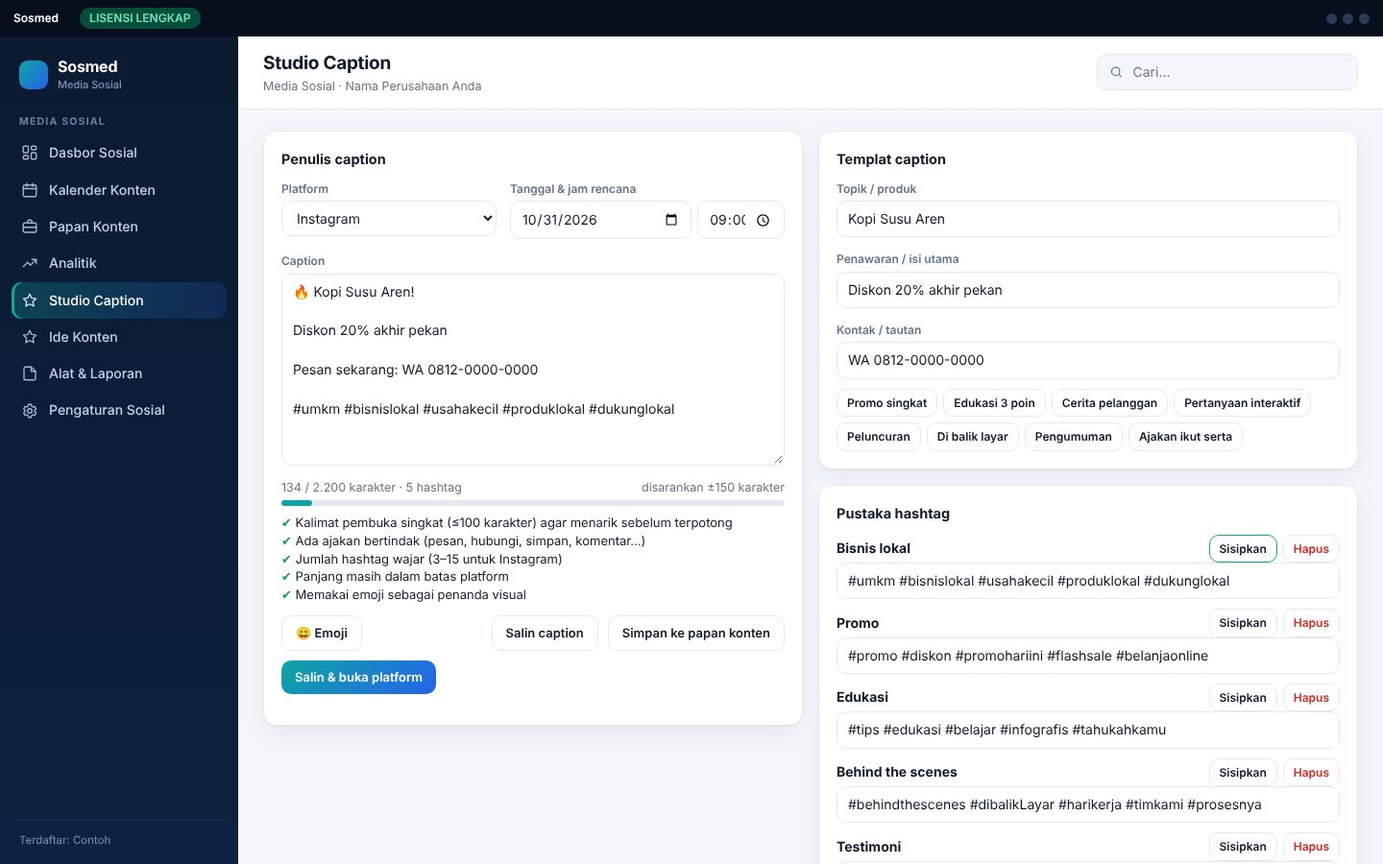
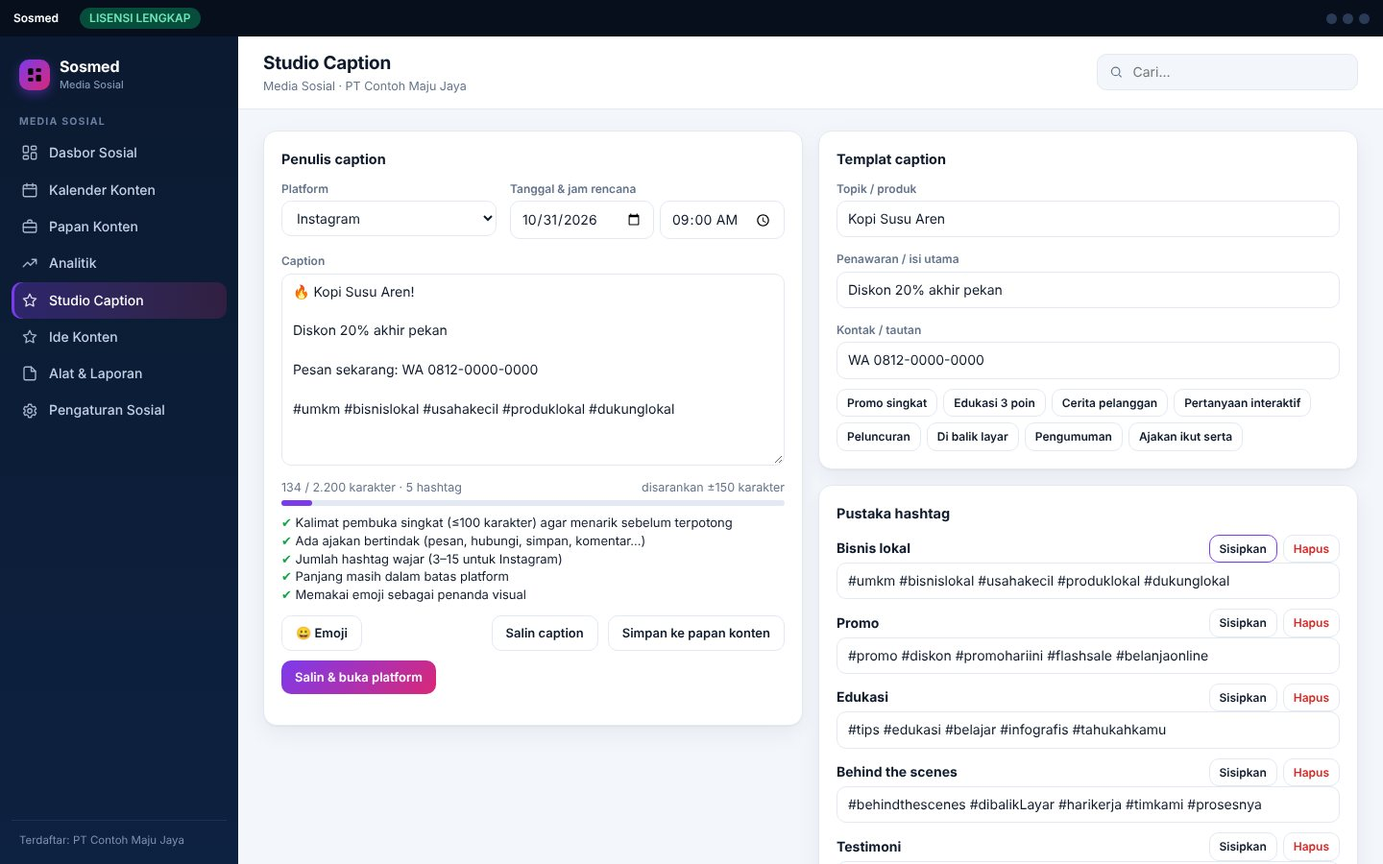
Identitas warna & ikon per aplikasi, perbaikan tampilan, galeri baru
Claude-Session: https://claude.ai/code/session_01ATKdQjtjDkbCW8CD6F26vC

diff --git a/index.html b/index.html
@@ -30,7 +30,7 @@ footer{background:var(--navy);color:#9fb1cc;padding:30px 0;font-size:14px}
 <header class="hero"><div class="w"><h1>Aplikasi profesional untuk bisnis Anda.</h1><p>HRMS, Finance, Sales, dan Sosmed: masing-masing aplikasi mandiri dengan fitur lengkap. Beli yang dibutuhkan saja, data tersimpan di komputer Anda, tanpa langganan bulanan.</p>
 <a class="btn pri" href="#modul">Lihat aplikasi &amp; coba demo</a><a class="btn" id="wa2" href="https://wa.me/6289623291732?text=Halo%2C%20saya%20tertarik%20aplikasi%20bisnis">Pesan</a>
 <img class="shot" src="assets/hr.jpg" alt="Dasbor HRMS"></div></header>
-<section id="modul"><div class="w"><h2>Aplikasi, beli sesuai kebutuhan</h2><p class="sub">Setiap aplikasi berdiri sendiri: file .exe sendiri, data sendiri, dan fitur lengkap. Semua angka pada demo adalah data simulasi.</p><div class="mod"><div><span class="tag">Human Resources</span><h3>HRMS: Payroll, absensi harian, dan talenta</h3><ul><li>Absen harian dengan jam masuk/pulang, terlambat, dan lembur otomatis, langsung masuk ke payroll</li><li>Payroll PPh 21 (TER dan progresif) dan BPJS, slip gaji PDF untuk semua karyawan</li><li>Impor absen dari CSV, cuti, rekrutmen, KPI, talent 9-Box, suksesi, pelatihan</li></ul><a class="btn pri" href="demo-app/hr/index.html" style="margin-right:8px">Coba demo HRMS</a><a class="btn" href="https://wa.me/6289623291732?text=Halo%2C%20saya%20tertarik%20HRMS">Pesan Rp100.000</a></div><img src="assets/hr-payroll.jpg" alt="HRMS" loading="lazy"></div><div class="mod"><div><span class="tag">Finance &amp; Accounting</span><h3>Finance: Pembukuan dari jurnal sampai tutup buku</h3><ul><li>Jurnal otomatis dari faktur, pembayaran, aset, dan pinjaman; faktur PDF</li><li>Laba rugi, neraca selalu seimbang, arus kas, anggaran, PPN, umur piutang/utang</li><li>Tutup buku bulanan dengan pemeriksaan otomatis, kunci periode, dan jurnal penutup tahun</li></ul><a class="btn pri" href="demo-app/fin/index.html" style="margin-right:8px">Coba demo Finance</a><a class="btn" href="https://wa.me/6289623291732?text=Halo%2C%20saya%20tertarik%20Finance">Pesan Rp100.000</a></div><img src="assets/fin.jpg" alt="Finance" loading="lazy"></div><div class="mod"><div><span class="tag">Sales &amp; Marketing</span><h3>Sales: Dari lead sampai penawaran dan komisi</h3><ul><li>CRM, skor lead, pipeline, dan funnel</li><li>Penawaran harga PDF yang bisa dijadikan penjualan dengan satu klik</li><li>Komisi berjenjang dengan slip PDF, kampanye (ROAS, ROI), tim sales</li></ul><a class="btn pri" href="demo-app/sales/index.html" style="margin-right:8px">Coba demo Sales</a><a class="btn" href="https://wa.me/6289623291732?text=Halo%2C%20saya%20tertarik%20Sales">Pesan Rp100.000</a></div><img src="assets/sales.jpg" alt="Sales" loading="lazy"></div><div class="mod"><div><span class="tag">Media Sosial</span><h3>Sosmed: Rencanakan, tulis, dan ukur konten tanpa API</h3><ul><li>Studio caption: batas karakter tiap platform, templat, pustaka hashtag, penilaian cepat</li><li>Jadwal ke kalender ponsel (.ics) dengan pengingat, tautan UTM, laporan bulanan PDF</li><li>Kalender dan papan konten, analitik, jam dan hari posting terbaik dari data Anda</li></ul><a class="btn pri" href="demo-app/sosial/index.html" style="margin-right:8px">Coba demo Sosmed</a><a class="btn" href="https://wa.me/6289623291732?text=Halo%2C%20saya%20tertarik%20Sosmed">Pesan Rp100.000</a></div><img src="assets/sosial.jpg" alt="Sosmed" loading="lazy"></div></section>
+<section id="modul"><div class="w"><h2>Aplikasi, beli sesuai kebutuhan</h2><p class="sub">Setiap aplikasi berdiri sendiri: file .exe sendiri, data sendiri, dan fitur lengkap. Semua angka pada demo adalah data simulasi.</p><div class="mod"><div><span class="tag" style="color:#0ea5a4">Human Resources</span><h3>HRMS: Payroll, absensi harian, dan talenta</h3><ul><li>Absen harian dengan jam masuk/pulang, terlambat, dan lembur otomatis, langsung masuk ke payroll</li><li>Payroll PPh 21 (TER dan progresif) dan BPJS, slip gaji PDF untuk semua karyawan</li><li>Impor absen dari CSV, cuti, rekrutmen, KPI, talent 9-Box, suksesi, pelatihan</li></ul><a class="btn pri" style="background:linear-gradient(135deg,#0ea5a4,#2563eb)" href="demo-app/hr/index.html" style="margin-right:8px">Coba demo HRMS</a><a class="btn" href="https://wa.me/6289623291732?text=Halo%2C%20saya%20tertarik%20HRMS">Pesan Rp100.000</a></div><img src="assets/hr-payroll.jpg" alt="HRMS" loading="lazy"></div><div class="mod"><div><span class="tag" style="color:#2563eb">Finance &amp; Accounting</span><h3>Finance: Pembukuan dari jurnal sampai tutup buku</h3><ul><li>Jurnal otomatis dari faktur, pembayaran, aset, dan pinjaman; faktur PDF</li><li>Laba rugi, neraca selalu seimbang, arus kas, anggaran, PPN, umur piutang/utang</li><li>Tutup buku bulanan dengan pemeriksaan otomatis, kunci periode, dan jurnal penutup tahun</li></ul><a class="btn pri" style="background:linear-gradient(135deg,#2563eb,#4f46e5)" href="demo-app/fin/index.html" style="margin-right:8px">Coba demo Finance</a><a class="btn" href="https://wa.me/6289623291732?text=Halo%2C%20saya%20tertarik%20Finance">Pesan Rp100.000</a></div><img src="assets/fin.jpg" alt="Finance" loading="lazy"></div><div class="mod"><div><span class="tag" style="color:#f97316">Sales &amp; Marketing</span><h3>Sales: Dari lead sampai penawaran dan komisi</h3><ul><li>CRM, skor lead, pipeline, dan funnel</li><li>Penawaran harga PDF yang bisa dijadikan penjualan dengan satu klik</li><li>Komisi berjenjang dengan slip PDF, kampanye (ROAS, ROI), tim sales</li></ul><a class="btn pri" style="background:linear-gradient(135deg,#f97316,#e11d48)" href="demo-app/sales/index.html" style="margin-right:8px">Coba demo Sales</a><a class="btn" href="https://wa.me/6289623291732?text=Halo%2C%20saya%20tertarik%20Sales">Pesan Rp100.000</a></div><img src="assets/sales.jpg" alt="Sales" loading="lazy"></div><div class="mod"><div><span class="tag" style="color:#7c3aed">Media Sosial</span><h3>Sosmed: Rencanakan, tulis, dan ukur konten tanpa API</h3><ul><li>Studio caption: batas karakter tiap platform, templat, pustaka hashtag, penilaian cepat</li><li>Jadwal ke kalender ponsel (.ics) dengan pengingat, tautan UTM, laporan bulanan PDF</li><li>Kalender dan papan konten, analitik, jam dan hari posting terbaik dari data Anda</li></ul><a class="btn pri" style="background:linear-gradient(135deg,#7c3aed,#db2777)" href="demo-app/sosial/index.html" style="margin-right:8px">Coba demo Sosmed</a><a class="btn" href="https://wa.me/6289623291732?text=Halo%2C%20saya%20tertarik%20Sosmed">Pesan Rp100.000</a></div><img src="assets/sosial.jpg" alt="Sosmed" loading="lazy"></div></section>
 <section id="galeri"><div class="w"><h2>Lihat lebih dekat</h2><p class="sub">Klik gambar untuk memperbesar. Semua data adalah simulasi.</p><div class="gal">
 <a href="assets/hr.jpg"><img src="assets/hr.jpg" alt="Dasbor HR" loading="lazy"><span>HR · Dasbor</span></a>
 <a href="assets/hr-payroll.jpg"><img src="assets/hr-payroll.jpg" alt="Payroll" loading="lazy"><span>HR · Payroll</span></a>

diff --git a/demo-app/fin/style.css b/demo-app/fin/style.css
@@ -9,12 +9,12 @@ button,input,select,textarea{font:inherit;color:inherit}
 .titlebar .lic{margin-left:12px;padding:2px 10px;border-radius:999px;background:#1c3153;color:#7dd3fc;font-weight:600}.titlebar .lic.full{background:#064e3b;color:#6ee7b7}
 .side{background:linear-gradient(180deg,var(--side),#0d2140);color:#c3d0e6;display:flex;flex-direction:column;padding:16px 12px;overflow:auto}
 .brand{display:flex;gap:10px;align-items:center;padding:4px 8px 18px;color:#fff;font-weight:700;font-size:16px;letter-spacing:-.2px}
-.brand i{width:30px;height:30px;border-radius:9px;background:linear-gradient(135deg,var(--brand),var(--brand2));display:block}
+.brand i{width:32px;height:32px;border-radius:10px;background:linear-gradient(135deg,var(--brand),var(--brand2));display:grid;place-items:center;color:#fff;box-shadow:0 4px 12px color-mix(in srgb,var(--brand) 45%,transparent)}.brand i svg{width:18px;height:18px}
 .brand small{display:block;font-weight:500;font-size:11px;color:#7f93b3;letter-spacing:0}
 .mod{margin:4px 0 14px}.mod h6{margin:0 8px 6px;font-size:10.5px;letter-spacing:1.2px;text-transform:uppercase;color:#6a7fa1}
 .nav{display:flex;align-items:center;gap:11px;width:100%;padding:9px 10px;border-radius:10px;border:0;background:transparent;color:#c3d0e6;cursor:pointer;text-align:left;font-weight:500}
 .nav svg{width:18px;height:18px;flex:none;stroke:currentColor;fill:none;stroke-width:1.8;stroke-linecap:round;stroke-linejoin:round;opacity:.85}
-.nav:hover{background:rgba(255,255,255,.06)}.nav.on{background:linear-gradient(90deg,rgba(14,165,164,.28),rgba(37,99,235,.18));color:#fff;box-shadow:inset 3px 0 0 var(--brand)}
+.nav:hover{background:rgba(255,255,255,.06)}.nav.on{background:linear-gradient(90deg,color-mix(in srgb,var(--brand) 30%,transparent),color-mix(in srgb,var(--brand2) 18%,transparent));color:#fff;box-shadow:inset 3px 0 0 var(--brand)}
 .nav .bd{margin-left:auto;background:var(--brand);color:#04201f;font-size:11px;font-weight:700;border-radius:999px;padding:1px 8px}
 .nav.soon{opacity:.45;cursor:default}.nav.soon:hover{background:transparent}
 .side .foot{margin-top:auto;padding:12px 8px 0;font-size:11.5px;color:#7f93b3;border-top:1px solid rgba(255,255,255,.08)}
@@ -31,10 +31,10 @@ button,input,select,textarea{font:inherit;color:inherit}
 .card h3{margin:0 0 12px;font-size:14.5px;display:flex;align-items:center;gap:8px}.card h3 small{font-weight:500;color:var(--mute)}
 .grid{display:grid;gap:16px}.g2{grid-template-columns:repeat(2,1fr)}.g3{grid-template-columns:repeat(3,1fr)}.g4{grid-template-columns:repeat(4,1fr)}.g32{grid-template-columns:2fr 1fr}
 .kpi{position:relative;overflow:hidden}.kpi small{color:var(--mute);font-weight:600;font-size:12px}.kpi b{display:block;font-size:24px;letter-spacing:-.5px;margin:4px 0 2px}.kpi .d{font-size:12px;color:var(--mute)}
-.kpi .ico{position:absolute;right:14px;top:14px;width:36px;height:36px;border-radius:10px;display:grid;place-items:center;background:linear-gradient(135deg,rgba(14,165,164,.15),rgba(37,99,235,.15));color:var(--brand)}
+.kpi .ico{position:absolute;right:14px;top:14px;width:36px;height:36px;border-radius:10px;display:grid;place-items:center;background:linear-gradient(135deg,color-mix(in srgb,var(--brand) 15%,transparent),color-mix(in srgb,var(--brand2) 15%,transparent));color:var(--brand)}
 .kpi .ico svg{width:19px;height:19px;stroke:currentColor;fill:none;stroke-width:1.9;stroke-linecap:round;stroke-linejoin:round}
 .tools{display:flex;gap:10px;align-items:center;flex-wrap:wrap;margin-bottom:14px}.tools .sp{flex:1}
-.inp,.sel{padding:8px 11px;border:1px solid var(--line);border-radius:10px;background:var(--panel);outline:0;min-width:0}.inp:focus,.sel:focus{border-color:var(--brand);box-shadow:0 0 0 3px rgba(14,165,164,.15)}
+.inp,.sel{padding:8px 11px;border:1px solid var(--line);border-radius:10px;background:var(--panel);outline:0;min-width:0}.inp:focus,.sel:focus{border-color:var(--brand);box-shadow:0 0 0 3px color-mix(in srgb,var(--brand) 15%,transparent)}
 .tbl{overflow:auto;border:1px solid var(--line);border-radius:12px;background:var(--panel)}
 table{border-collapse:collapse;width:100%;font-size:13px}th{position:sticky;top:0;background:var(--bg);text-align:left;font-size:11.5px;text-transform:uppercase;letter-spacing:.5px;color:var(--mute);padding:10px 12px;border-bottom:1px solid var(--line);white-space:nowrap;cursor:pointer;user-select:none}
 td{padding:9px 12px;border-bottom:1px solid var(--line);white-space:nowrap}tr:hover td{background:rgba(14,165,164,.05)}td.n,th.n{text-align:right;font-variant-numeric:tabular-nums}

diff --git a/demo-app/hr/style.css b/demo-app/hr/style.css
@@ -9,12 +9,12 @@ button,input,select,textarea{font:inherit;color:inherit}
 .titlebar .lic{margin-left:12px;padding:2px 10px;border-radius:999px;background:#1c3153;color:#7dd3fc;font-weight:600}.titlebar .lic.full{background:#064e3b;color:#6ee7b7}
 .side{background:linear-gradient(180deg,var(--side),#0d2140);color:#c3d0e6;display:flex;flex-direction:column;padding:16px 12px;overflow:auto}
 .brand{display:flex;gap:10px;align-items:center;padding:4px 8px 18px;color:#fff;font-weight:700;font-size:16px;letter-spacing:-.2px}
-.brand i{width:30px;height:30px;border-radius:9px;background:linear-gradient(135deg,var(--brand),var(--brand2));display:block}
+.brand i{width:32px;height:32px;border-radius:10px;background:linear-gradient(135deg,var(--brand),var(--brand2));display:grid;place-items:center;color:#fff;box-shadow:0 4px 12px color-mix(in srgb,var(--brand) 45%,transparent)}.brand i svg{width:18px;height:18px}
 .brand small{display:block;font-weight:500;font-size:11px;color:#7f93b3;letter-spacing:0}
 .mod{margin:4px 0 14px}.mod h6{margin:0 8px 6px;font-size:10.5px;letter-spacing:1.2px;text-transform:uppercase;color:#6a7fa1}
 .nav{display:flex;align-items:center;gap:11px;width:100%;padding:9px 10px;border-radius:10px;border:0;background:transparent;color:#c3d0e6;cursor:pointer;text-align:left;font-weight:500}
 .nav svg{width:18px;height:18px;flex:none;stroke:currentColor;fill:none;stroke-width:1.8;stroke-linecap:round;stroke-linejoin:round;opacity:.85}
-.nav:hover{background:rgba(255,255,255,.06)}.nav.on{background:linear-gradient(90deg,rgba(14,165,164,.28),rgba(37,99,235,.18));color:#fff;box-shadow:inset 3px 0 0 var(--brand)}
+.nav:hover{background:rgba(255,255,255,.06)}.nav.on{background:linear-gradient(90deg,color-mix(in srgb,var(--brand) 30%,transparent),color-mix(in srgb,var(--brand2) 18%,transparent));color:#fff;box-shadow:inset 3px 0 0 var(--brand)}
 .nav .bd{margin-left:auto;background:var(--brand);color:#04201f;font-size:11px;font-weight:700;border-radius:999px;padding:1px 8px}
 .nav.soon{opacity:.45;cursor:default}.nav.soon:hover{background:transparent}
 .side .foot{margin-top:auto;padding:12px 8px 0;font-size:11.5px;color:#7f93b3;border-top:1px solid rgba(255,255,255,.08)}
@@ -31,10 +31,10 @@ button,input,select,textarea{font:inherit;color:inherit}
 .card h3{margin:0 0 12px;font-size:14.5px;display:flex;align-items:center;gap:8px}.card h3 small{font-weight:500;color:var(--mute)}
 .grid{display:grid;gap:16px}.g2{grid-template-columns:repeat(2,1fr)}.g3{grid-template-columns:repeat(3,1fr)}.g4{grid-template-columns:repeat(4,1fr)}.g32{grid-template-columns:2fr 1fr}
 .kpi{position:relative;overflow:hidden}.kpi small{color:var(--mute);font-weight:600;font-size:12px}.kpi b{display:block;font-size:24px;letter-spacing:-.5px;margin:4px 0 2px}.kpi .d{font-size:12px;color:var(--mute)}
-.kpi .ico{position:absolute;right:14px;top:14px;width:36px;height:36px;border-radius:10px;display:grid;place-items:center;background:linear-gradient(135deg,rgba(14,165,164,.15),rgba(37,99,235,.15));color:var(--brand)}
+.kpi .ico{position:absolute;right:14px;top:14px;width:36px;height:36px;border-radius:10px;display:grid;place-items:center;background:linear-gradient(135deg,color-mix(in srgb,var(--brand) 15%,transparent),color-mix(in srgb,var(--brand2) 15%,transparent));color:var(--brand)}
 .kpi .ico svg{width:19px;height:19px;stroke:currentColor;fill:none;stroke-width:1.9;stroke-linecap:round;stroke-linejoin:round}
 .tools{display:flex;gap:10px;align-items:center;flex-wrap:wrap;margin-bottom:14px}.tools .sp{flex:1}
-.inp,.sel{padding:8px 11px;border:1px solid var(--line);border-radius:10px;background:var(--panel);outline:0;min-width:0}.inp:focus,.sel:focus{border-color:var(--brand);box-shadow:0 0 0 3px rgba(14,165,164,.15)}
+.inp,.sel{padding:8px 11px;border:1px solid var(--line);border-radius:10px;background:var(--panel);outline:0;min-width:0}.inp:focus,.sel:focus{border-color:var(--brand);box-shadow:0 0 0 3px color-mix(in srgb,var(--brand) 15%,transparent)}
 .tbl{overflow:auto;border:1px solid var(--line);border-radius:12px;background:var(--panel)}
 table{border-collapse:collapse;width:100%;font-size:13px}th{position:sticky;top:0;background:var(--bg);text-align:left;font-size:11.5px;text-transform:uppercase;letter-spacing:.5px;color:var(--mute);padding:10px 12px;border-bottom:1px solid var(--line);white-space:nowrap;cursor:pointer;user-select:none}
 td{padding:9px 12px;border-bottom:1px solid var(--line);white-space:nowrap}tr:hover td{background:rgba(14,165,164,.05)}td.n,th.n{text-align:right;font-variant-numeric:tabular-nums}

diff --git a/demo-app/sales/style.css b/demo-app/sales/style.css
@@ -9,12 +9,12 @@ button,input,select,textarea{font:inherit;color:inherit}
 .titlebar .lic{margin-left:12px;padding:2px 10px;border-radius:999px;background:#1c3153;color:#7dd3fc;font-weight:600}.titlebar .lic.full{background:#064e3b;color:#6ee7b7}
 .side{background:linear-gradient(180deg,var(--side),#0d2140);color:#c3d0e6;display:flex;flex-direction:column;padding:16px 12px;overflow:auto}
 .brand{display:flex;gap:10px;align-items:center;padding:4px 8px 18px;color:#fff;font-weight:700;font-size:16px;letter-spacing:-.2px}
-.brand i{width:30px;height:30px;border-radius:9px;background:linear-gradient(135deg,var(--brand),var(--brand2));display:block}
+.brand i{width:32px;height:32px;border-radius:10px;background:linear-gradient(135deg,var(--brand),var(--brand2));display:grid;place-items:center;color:#fff;box-shadow:0 4px 12px color-mix(in srgb,var(--brand) 45%,transparent)}.brand i svg{width:18px;height:18px}
 .brand small{display:block;font-weight:500;font-size:11px;color:#7f93b3;letter-spacing:0}
 .mod{margin:4px 0 14px}.mod h6{margin:0 8px 6px;font-size:10.5px;letter-spacing:1.2px;text-transform:uppercase;color:#6a7fa1}
 .nav{display:flex;align-items:center;gap:11px;width:100%;padding:9px 10px;border-radius:10px;border:0;background:transparent;color:#c3d0e6;cursor:pointer;text-align:left;font-weight:500}
 .nav svg{width:18px;height:18px;flex:none;stroke:currentColor;fill:none;stroke-width:1.8;stroke-linecap:round;stroke-linejoin:round;opacity:.85}
-.nav:hover{background:rgba(255,255,255,.06)}.nav.on{background:linear-gradient(90deg,rgba(14,165,164,.28),rgba(37,99,235,.18));color:#fff;box-shadow:inset 3px 0 0 var(--brand)}
+.nav:hover{background:rgba(255,255,255,.06)}.nav.on{background:linear-gradient(90deg,color-mix(in srgb,var(--brand) 30%,transparent),color-mix(in srgb,var(--brand2) 18%,transparent));color:#fff;box-shadow:inset 3px 0 0 var(--brand)}
 .nav .bd{margin-left:auto;background:var(--brand);color:#04201f;font-size:11px;font-weight:700;border-radius:999px;padding:1px 8px}
 .nav.soon{opacity:.45;cursor:default}.nav.soon:hover{background:transparent}
 .side .foot{margin-top:auto;padding:12px 8px 0;font-size:11.5px;color:#7f93b3;border-top:1px solid rgba(255,255,255,.08)}
@@ -31,10 +31,10 @@ button,input,select,textarea{font:inherit;color:inherit}
 .card h3{margin:0 0 12px;font-size:14.5px;display:flex;align-items:center;gap:8px}.card h3 small{font-weight:500;color:var(--mute)}
 .grid{display:grid;gap:16px}.g2{grid-template-columns:repeat(2,1fr)}.g3{grid-template-columns:repeat(3,1fr)}.g4{grid-template-columns:repeat(4,1fr)}.g32{grid-template-columns:2fr 1fr}
 .kpi{position:relative;overflow:hidden}.kpi small{color:var(--mute);font-weight:600;font-size:12px}.kpi b{display:block;font-size:24px;letter-spacing:-.5px;margin:4px 0 2px}.kpi .d{font-size:12px;color:var(--mute)}
-.kpi .ico{position:absolute;right:14px;top:14px;width:36px;height:36px;border-radius:10px;display:grid;place-items:center;background:linear-gradient(135deg,rgba(14,165,164,.15),rgba(37,99,235,.15));color:var(--brand)}
+.kpi .ico{position:absolute;right:14px;top:14px;width:36px;height:36px;border-radius:10px;display:grid;place-items:center;background:linear-gradient(135deg,color-mix(in srgb,var(--brand) 15%,transparent),color-mix(in srgb,var(--brand2) 15%,transparent));color:var(--brand)}
 .kpi .ico svg{width:19px;height:19px;stroke:currentColor;fill:none;stroke-width:1.9;stroke-linecap:round;stroke-linejoin:round}
 .tools{display:flex;gap:10px;align-items:center;flex-wrap:wrap;margin-bottom:14px}.tools .sp{flex:1}
-.inp,.sel{padding:8px 11px;border:1px solid var(--line);border-radius:10px;background:var(--panel);outline:0;min-width:0}.inp:focus,.sel:focus{border-color:var(--brand);box-shadow:0 0 0 3px rgba(14,165,164,.15)}
+.inp,.sel{padding:8px 11px;border:1px solid var(--line);border-radius:10px;background:var(--panel);outline:0;min-width:0}.inp:focus,.sel:focus{border-color:var(--brand);box-shadow:0 0 0 3px color-mix(in srgb,var(--brand) 15%,transparent)}
 .tbl{overflow:auto;border:1px solid var(--line);border-radius:12px;background:var(--panel)}
 table{border-collapse:collapse;width:100%;font-size:13px}th{position:sticky;top:0;background:var(--bg);text-align:left;font-size:11.5px;text-transform:uppercase;letter-spacing:.5px;color:var(--mute);padding:10px 12px;border-bottom:1px solid var(--line);white-space:nowrap;cursor:pointer;user-select:none}
 td{padding:9px 12px;border-bottom:1px solid var(--line);white-space:nowrap}tr:hover td{background:rgba(14,165,164,.05)}td.n,th.n{text-align:right;font-variant-numeric:tabular-nums}

diff --git a/demo-app/sosial/style.css b/demo-app/sosial/style.css
@@ -9,12 +9,12 @@ button,input,select,textarea{font:inherit;color:inherit}
 .titlebar .lic{margin-left:12px;padding:2px 10px;border-radius:999px;background:#1c3153;color:#7dd3fc;font-weight:600}.titlebar .lic.full{background:#064e3b;color:#6ee7b7}
 .side{background:linear-gradient(180deg,var(--side),#0d2140);color:#c3d0e6;display:flex;flex-direction:column;padding:16px 12px;overflow:auto}
 .brand{display:flex;gap:10px;align-items:center;padding:4px 8px 18px;color:#fff;font-weight:700;font-size:16px;letter-spacing:-.2px}
-.brand i{width:30px;height:30px;border-radius:9px;background:linear-gradient(135deg,var(--brand),var(--brand2));display:block}
+.brand i{width:32px;height:32px;border-radius:10px;background:linear-gradient(135deg,var(--brand),var(--brand2));display:grid;place-items:center;color:#fff;box-shadow:0 4px 12px color-mix(in srgb,var(--brand) 45%,transparent)}.brand i svg{width:18px;height:18px}
 .brand small{display:block;font-weight:500;font-size:11px;color:#7f93b3;letter-spacing:0}
 .mod{margin:4px 0 14px}.mod h6{margin:0 8px 6px;font-size:10.5px;letter-spacing:1.2px;text-transform:uppercase;color:#6a7fa1}
 .nav{display:flex;align-items:center;gap:11px;width:100%;padding:9px 10px;border-radius:10px;border:0;background:transparent;color:#c3d0e6;cursor:pointer;text-align:left;font-weight:500}
 .nav svg{width:18px;height:18px;flex:none;stroke:currentColor;fill:none;stroke-width:1.8;stroke-linecap:round;stroke-linejoin:round;opacity:.85}
-.nav:hover{background:rgba(255,255,255,.06)}.nav.on{background:linear-gradient(90deg,rgba(14,165,164,.28),rgba(37,99,235,.18));color:#fff;box-shadow:inset 3px 0 0 var(--brand)}
+.nav:hover{background:rgba(255,255,255,.06)}.nav.on{background:linear-gradient(90deg,color-mix(in srgb,var(--brand) 30%,transparent),color-mix(in srgb,var(--brand2) 18%,transparent));color:#fff;box-shadow:inset 3px 0 0 var(--brand)}
 .nav .bd{margin-left:auto;background:var(--brand);color:#04201f;font-size:11px;font-weight:700;border-radius:999px;padding:1px 8px}
 .nav.soon{opacity:.45;cursor:default}.nav.soon:hover{background:transparent}
 .side .foot{margin-top:auto;padding:12px 8px 0;font-size:11.5px;color:#7f93b3;border-top:1px solid rgba(255,255,255,.08)}
@@ -31,10 +31,10 @@ button,input,select,textarea{font:inherit;color:inherit}
 .card h3{margin:0 0 12px;font-size:14.5px;display:flex;align-items:center;gap:8px}.card h3 small{font-weight:500;color:var(--mute)}
 .grid{display:grid;gap:16px}.g2{grid-template-columns:repeat(2,1fr)}.g3{grid-template-columns:repeat(3,1fr)}.g4{grid-template-columns:repeat(4,1fr)}.g32{grid-template-columns:2fr 1fr}
 .kpi{position:relative;overflow:hidden}.kpi small{color:var(--mute);font-weight:600;font-size:12px}.kpi b{display:block;font-size:24px;letter-spacing:-.5px;margin:4px 0 2px}.kpi .d{font-size:12px;color:var(--mute)}
-.kpi .ico{position:absolute;right:14px;top:14px;width:36px;height:36px;border-radius:10px;display:grid;place-items:center;background:linear-gradient(135deg,rgba(14,165,164,.15),rgba(37,99,235,.15));color:var(--brand)}
+.kpi .ico{position:absolute;right:14px;top:14px;width:36px;height:36px;border-radius:10px;display:grid;place-items:center;background:linear-gradient(135deg,color-mix(in srgb,var(--brand) 15%,transparent),color-mix(in srgb,var(--brand2) 15%,transparent));color:var(--brand)}
 .kpi .ico svg{width:19px;height:19px;stroke:currentColor;fill:none;stroke-width:1.9;stroke-linecap:round;stroke-linejoin:round}
 .tools{display:flex;gap:10px;align-items:center;flex-wrap:wrap;margin-bottom:14px}.tools .sp{flex:1}
-.inp,.sel{padding:8px 11px;border:1px solid var(--line);border-radius:10px;background:var(--panel);outline:0;min-width:0}.inp:focus,.sel:focus{border-color:var(--brand);box-shadow:0 0 0 3px rgba(14,165,164,.15)}
+.inp,.sel{padding:8px 11px;border:1px solid var(--line);border-radius:10px;background:var(--panel);outline:0;min-width:0}.inp:focus,.sel:focus{border-color:var(--brand);box-shadow:0 0 0 3px color-mix(in srgb,var(--brand) 15%,transparent)}
 .tbl{overflow:auto;border:1px solid var(--line);border-radius:12px;background:var(--panel)}
 table{border-collapse:collapse;width:100%;font-size:13px}th{position:sticky;top:0;background:var(--bg);text-align:left;font-size:11.5px;text-transform:uppercase;letter-spacing:.5px;color:var(--mute);padding:10px 12px;border-bottom:1px solid var(--line);white-space:nowrap;cursor:pointer;user-select:none}
 td{padding:9px 12px;border-bottom:1px solid var(--line);white-space:nowrap}tr:hover td{background:rgba(14,165,164,.05)}td.n,th.n{text-align:right;font-variant-numeric:tabular-nums}

diff --git a/demo-app/fin/fin.js b/demo-app/fin/fin.js
@@ -225,9 +225,9 @@ V.f_tutup=el=>{
    r.push({t:'Semua faktur bulan ini punya jurnal',ok:!op,n:op?op+' faktur tanpa jurnal':'',blk:1});return r};
   const canClose=nm<=12&&nm<=d.bulan,res=canClose?chk(nm):[],pass=res.every(x=>x.ok||!x.blk);
   el.innerHTML=`<div class="grid g2"><div class="card"><h3>Status periode</h3><p style="margin:0 0 10px">${lk?`Dikunci sampai akhir <b>${MN[lm-1]} ${d.tahun}</b>. Transaksi bertanggal pada atau sebelum itu tidak bisa ditambah, diubah, atau dihapus.`:'Belum ada periode yang ditutup.'}</p>
-   <div style="display:flex;gap:6px;flex-wrap:wrap;margin-bottom:14px">${MN.map((n,i)=>`<span class="pill ${i<lm?'ok':'mut'}">${i<lm?'🔒 ':''}${n.slice(0,3)}</span>`).join('')}</div>
+   <div style="display:flex;gap:6px;flex-wrap:wrap;margin-bottom:14px">${MN.map((n,i)=>pill((i<lm?'🔒 ':'')+n.slice(0,3),i<lm?'ok':'mut')).join('')}</div>
    <div class="tools">${lm?`<button class="btn dng" id="op">Buka kembali ${MN[lm-1]}</button>`:''}</div></div>
-   <div class="card"><h3>${canClose?'Tutup buku '+MN[nm-1]+' '+d.tahun:'Tutup buku'}</h3>${canClose?`<div style="display:grid;gap:8px;margin-bottom:14px">${res.map(x=>`<div style="display:flex;gap:8px;align-items:flex-start"><span class="pill ${x.ok?'ok':x.blk?'bad':'warn'}">${x.ok?'Lolos':x.blk?'Gagal':'Periksa'}</span><div>${x.t}${x.n?`<br><small style="color:var(--mute)">${esc(x.n)}</small>`:''}</div></div>`).join('')}</div>${nm===12?`<label style="display:flex;gap:8px;align-items:flex-start;margin-bottom:12px"><input type="checkbox" id="cj" checked><span>Posting <b>jurnal penutup tahun</b>: saldo pendapatan dan beban ditutup ke Laba Ditahan. Laporan laba rugi tahun ini tetap utuh.</span></label>`:''}<div class="tools"><button class="btn pri" id="cl" ${pass?'':'disabled'}>Tutup buku ${MN[nm-1]}</button><button class="btn" id="pl">Cetak laba rugi & neraca</button></div>${pass?'':'<p style="color:var(--mute);margin:10px 0 0">Selesaikan pemeriksaan yang gagal untuk dapat menutup periode.</p>'}`:`<p style="color:var(--mute);margin:0">${nm>12?'Seluruh bulan tahun '+d.tahun+' sudah ditutup.':'Bulan berikutnya ('+MN[nm-1]+') belum menjadi periode berjalan. Ubah periode berjalan di Pengaturan Keuangan bila ingin menutupnya.'}</p>`}</div></div>`;
+   <div class="card"><h3>${canClose?'Tutup buku '+MN[nm-1]+' '+d.tahun:'Tutup buku'}</h3>${canClose?`<div style="display:grid;gap:8px;margin-bottom:14px">${res.map(x=>`<div style="display:flex;gap:8px;align-items:flex-start">${pill(x.ok?'Lolos':x.blk?'Gagal':'Periksa',x.ok?'ok':x.blk?'bad':'warn')}<div>${x.t}${x.n?`<br><small style="color:var(--mute)">${esc(x.n)}</small>`:''}</div></div>`).join('')}</div>${nm===12?`<label style="display:flex;gap:8px;align-items:flex-start;margin-bottom:12px"><input type="checkbox" id="cj" checked><span>Posting <b>jurnal penutup tahun</b>: saldo pendapatan dan beban ditutup ke Laba Ditahan. Laporan laba rugi tahun ini tetap utuh.</span></label>`:''}<div class="tools"><button class="btn pri" id="cl" ${pass?'':'disabled'}>Tutup buku ${MN[nm-1]}</button><button class="btn" id="pl">Cetak laba rugi & neraca</button></div>${pass?'':'<p style="color:var(--mute);margin:10px 0 0">Selesaikan pemeriksaan yang gagal untuk dapat menutup periode.</p>'}`:`<p style="color:var(--mute);margin:0">${nm>12?'Seluruh bulan tahun '+d.tahun+' sudah ditutup.':'Bulan berikutnya ('+MN[nm-1]+') belum menjadi periode berjalan. Ubah periode berjalan di Pengaturan Keuangan bila ingin menutupnya.'}</p>`}</div></div>`;
   if($('#cl'))$('#cl').onclick=()=>{if(!confirm('Tutup buku '+MN[nm-1]+'? Transaksi pada periode ini akan terkunci.'))return;if(nm===12&&$('#cj')&&$('#cj').checked&&!d.ent.some(e=>e.src==='tutup')){const c=FIN.closeEntry();if(c)FIN.post(FIN.end(12),'CLS-'+d.tahun,'Jurnal penutup tahun '+d.tahun,c.l,'tutup')}d.lock=d.tahun+'-'+String(nm).padStart(2,'0');FIN.save();draw();toast(MN[nm-1]+' ditutup'+(d.ent.some(e=>e.src==='tutup')?' dan jurnal penutup diposting':''))};
   if($('#op'))$('#op').onclick=()=>{if(!confirm('Buka kembali '+MN[lm-1]+'? Periode akan bisa diubah lagi'+(lm===12&&d.ent.some(e=>e.src==='tutup')?' dan jurnal penutup tahun dihapus.':'.')))return;if(lm===12)d.ent=d.ent.filter(e=>e.src!=='tutup');d.lock=lm>1?d.tahun+'-'+String(lm-1).padStart(2,'0'):'';FIN.save();draw();toast(MN[lm-1]+' dibuka kembali')};
   if($('#pl'))$('#pl').onclick=()=>printDoc('Laporan '+MN[nm-1]+' '+d.tahun,lrBody(nm)+nrBody(nm));

diff --git a/demo-app/sosial/social.js b/demo-app/sosial/social.js
@@ -105,7 +105,7 @@ V.m_studio=el=>{
   const d=SOC.d,sets=SOC.tags(),pf=el._p||d.acc[0].p,st=el._st||{topik:'',penawaran:'',kontak:''},cap=el._cap||'';
   const rd=()=>({t:$('#c_t').value,pe:$('#c_pe').value,k:$('#c_k').value});
   el.innerHTML=`<div class="grid g2" style="align-items:start"><div class="card"><h3>Penulis caption</h3>
-  <div class="form"><div><label>Platform</label><select class="sel" id="c_p">${opts(d.acc.map(a=>a.p),pf)}</select></div><div><label>Tanggal & jam rencana</label><div style="display:flex;gap:6px"><input class="inp" type="date" id="c_d" value="${d.today}"><input class="inp" type="time" id="c_j" value="09:00" style="width:130px"></div></div>
+  <div class="form"><div><label>Platform</label><select class="sel" id="c_p">${opts(d.acc.map(a=>a.p),pf)}</select></div><div><label>Tanggal & jam rencana</label><div style="display:flex;gap:6px"><input class="inp" type="date" id="c_d" value="${d.today}" style="flex:1 1 150px"><input class="inp" type="time" id="c_j" value="09:00" style="flex:0 0 130px;width:130px"></div></div>
   <div class="full"><label>Caption</label><textarea class="inp" id="c_c" rows="9" placeholder="Tulis caption di sini, atau pilih templat di kanan…">${esc(cap)}</textarea></div></div>
   <div id="cnt" style="margin:8px 0"></div><div id="qc" style="font-size:13px"></div>
   <div class="tools" style="margin-top:12px;flex-wrap:wrap"><button class="btn" data-em="😀 🔥 ✨ 👇 ✅ 🙏 💡 🎁">😀 Emoji</button><span class="sp"></span><button class="btn" id="cp">Salin caption</button><button class="btn" id="sv">Simpan ke papan konten</button><button class="btn pri" id="sh">Salin & buka platform</button></div><div id="em" style="margin-top:8px;font-size:20px;display:none"></div></div>

diff --git a/demo-app/fin/app.js b/demo-app/fin/app.js
@@ -7,6 +7,7 @@ const MODS_ALL=MODS.slice();
 const App={cur:'dashboard',q:'',
  init(){if(CONFIG.modules){for(let i=MODS.length-1;i>=0;i--)if(!CONFIG.modules.includes(MODS[i].key))MODS.splice(i,1);this.cur=MODS[0].items[0][0]}
   [['HR','hr'],['FIN','fin'],['SAL','sales'],['SOC','sosial']].forEach(([o,k])=>{if(!CONFIG.modules||CONFIG.modules.includes(k))window[o]!==undefined||0;});(typeof HR!=='undefined')&&HR.init();(typeof FIN!=='undefined')&&FIN.init();(typeof SAL!=='undefined')&&SAL.init();(typeof SOC!=='undefined')&&SOC.init();try{if(Store.get('theme','')==='dark')document.documentElement.dataset.theme='dark'}catch(e){}
+  {const cs=getComputedStyle(document.documentElement);PAL[0]=cs.getPropertyValue('--brand').trim()||PAL[0];PAL[1]=cs.getPropertyValue('--brand2').trim()||PAL[1];const bi=$('.brand i');if(bi)bi.innerHTML=ico(MODS[0].items[0][2])}
   $('#lic').textContent=DEMO()?'EDISI DEMO':'LISENSI LENGKAP';$('#lic').className='lic'+(DEMO()?'':' full');
   $('#nav').innerHTML=MODS.map(m=>`<div class="mod"><h6>${m.g}${m.soon?' · segera':''}</h6>${m.items.map(i=>`<button class="nav${m.soon?' soon':''}" data-k="${i[0]}">${ico(i[2])}<span>${i[1]}</span></button>`).join('')}</div>`).join('');
   $$('.nav:not(.soon)').forEach(b=>b.onclick=()=>{this.cur=b.dataset.k;this.q='';$('#q').value='';this.render()});

diff --git a/demo-app/hr/app.js b/demo-app/hr/app.js
@@ -7,6 +7,7 @@ const MODS_ALL=MODS.slice();
 const App={cur:'dashboard',q:'',
  init(){if(CONFIG.modules){for(let i=MODS.length-1;i>=0;i--)if(!CONFIG.modules.includes(MODS[i].key))MODS.splice(i,1);this.cur=MODS[0].items[0][0]}
   [['HR','hr'],['FIN','fin'],['SAL','sales'],['SOC','sosial']].forEach(([o,k])=>{if(!CONFIG.modules||CONFIG.modules.includes(k))window[o]!==undefined||0;});(typeof HR!=='undefined')&&HR.init();(typeof FIN!=='undefined')&&FIN.init();(typeof SAL!=='undefined')&&SAL.init();(typeof SOC!=='undefined')&&SOC.init();try{if(Store.get('theme','')==='dark')document.documentElement.dataset.theme='dark'}catch(e){}
+  {const cs=getComputedStyle(document.documentElement);PAL[0]=cs.getPropertyValue('--brand').trim()||PAL[0];PAL[1]=cs.getPropertyValue('--brand2').trim()||PAL[1];const bi=$('.brand i');if(bi)bi.innerHTML=ico(MODS[0].items[0][2])}
   $('#lic').textContent=DEMO()?'EDISI DEMO':'LISENSI LENGKAP';$('#lic').className='lic'+(DEMO()?'':' full');
   $('#nav').innerHTML=MODS.map(m=>`<div class="mod"><h6>${m.g}${m.soon?' · segera':''}</h6>${m.items.map(i=>`<button class="nav${m.soon?' soon':''}" data-k="${i[0]}">${ico(i[2])}<span>${i[1]}</span></button>`).join('')}</div>`).join('');
   $$('.nav:not(.soon)').forEach(b=>b.onclick=()=>{this.cur=b.dataset.k;this.q='';$('#q').value='';this.render()});

diff --git a/demo-app/sales/app.js b/demo-app/sales/app.js
@@ -7,6 +7,7 @@ const MODS_ALL=MODS.slice();
 const App={cur:'dashboard',q:'',
  init(){if(CONFIG.modules){for(let i=MODS.length-1;i>=0;i--)if(!CONFIG.modules.includes(MODS[i].key))MODS.splice(i,1);this.cur=MODS[0].items[0][0]}
   [['HR','hr'],['FIN','fin'],['SAL','sales'],['SOC','sosial']].forEach(([o,k])=>{if(!CONFIG.modules||CONFIG.modules.includes(k))window[o]!==undefined||0;});(typeof HR!=='undefined')&&HR.init();(typeof FIN!=='undefined')&&FIN.init();(typeof SAL!=='undefined')&&SAL.init();(typeof SOC!=='undefined')&&SOC.init();try{if(Store.get('theme','')==='dark')document.documentElement.dataset.theme='dark'}catch(e){}
+  {const cs=getComputedStyle(document.documentElement);PAL[0]=cs.getPropertyValue('--brand').trim()||PAL[0];PAL[1]=cs.getPropertyValue('--brand2').trim()||PAL[1];const bi=$('.brand i');if(bi)bi.innerHTML=ico(MODS[0].items[0][2])}
   $('#lic').textContent=DEMO()?'EDISI DEMO':'LISENSI LENGKAP';$('#lic').className='lic'+(DEMO()?'':' full');
   $('#nav').innerHTML=MODS.map(m=>`<div class="mod"><h6>${m.g}${m.soon?' · segera':''}</h6>${m.items.map(i=>`<button class="nav${m.soon?' soon':''}" data-k="${i[0]}">${ico(i[2])}<span>${i[1]}</span></button>`).join('')}</div>`).join('');
   $$('.nav:not(.soon)').forEach(b=>b.onclick=()=>{this.cur=b.dataset.k;this.q='';$('#q').value='';this.render()});

diff --git a/demo-app/sosial/app.js b/demo-app/sosial/app.js
@@ -7,6 +7,7 @@ const MODS_ALL=MODS.slice();
 const App={cur:'dashboard',q:'',
  init(){if(CONFIG.modules){for(let i=MODS.length-1;i>=0;i--)if(!CONFIG.modules.includes(MODS[i].key))MODS.splice(i,1);this.cur=MODS[0].items[0][0]}
   [['HR','hr'],['FIN','fin'],['SAL','sales'],['SOC','sosial']].forEach(([o,k])=>{if(!CONFIG.modules||CONFIG.modules.includes(k))window[o]!==undefined||0;});(typeof HR!=='undefined')&&HR.init();(typeof FIN!=='undefined')&&FIN.init();(typeof SAL!=='undefined')&&SAL.init();(typeof SOC!=='undefined')&&SOC.init();try{if(Store.get('theme','')==='dark')document.documentElement.dataset.theme='dark'}catch(e){}
+  {const cs=getComputedStyle(document.documentElement);PAL[0]=cs.getPropertyValue('--brand').trim()||PAL[0];PAL[1]=cs.getPropertyValue('--brand2').trim()||PAL[1];const bi=$('.brand i');if(bi)bi.innerHTML=ico(MODS[0].items[0][2])}
   $('#lic').textContent=DEMO()?'EDISI DEMO':'LISENSI LENGKAP';$('#lic').className='lic'+(DEMO()?'':' full');
   $('#nav').innerHTML=MODS.map(m=>`<div class="mod"><h6>${m.g}${m.soon?' · segera':''}</h6>${m.items.map(i=>`<button class="nav${m.soon?' soon':''}" data-k="${i[0]}">${ico(i[2])}<span>${i[1]}</span></button>`).join('')}</div>`).join('');
   $$('.nav:not(.soon)').forEach(b=>b.onclick=()=>{this.cur=b.dataset.k;this.q='';$('#q').value='';this.render()});

diff --git a/demo-app/fin/index.html b/demo-app/fin/index.html
@@ -1,4 +1,4 @@
-<!doctype html><html lang="id"><head><meta charset="utf-8"><title>Finance</title><meta name="viewport" content="width=device-width,initial-scale=1"><link rel="stylesheet" href="style.css"></head><body>
+<!doctype html><html lang="id"><head><meta charset="utf-8"><title>Finance</title><meta name="viewport" content="width=device-width,initial-scale=1"><link rel="stylesheet" href="style.css"><style>:root{--brand:#2563eb;--brand2:#4f46e5}</style></head><body>
 <div class="app"><div class="titlebar"><b id="tt">Finance</b><span class="lic" id="lic"></span><span class="dots"><i></i><i></i><i></i></span></div>
 <aside class="side"><div class="brand"><i></i><div>Finance<small>Finance & Accounting</small></div></div><div id="nav"></div><div class="foot" id="ft"></div></aside>
 <main class="main"><header class="top"><div><h1 id="h1"></h1><div class="crumb" id="cr"></div></div><span class="sp"></span><label class="search"><svg viewBox="0 0 24 24"><circle cx="11" cy="11" r="7"/><path d="M21 21l-4.3-4.3"/></svg><input id="q" placeholder="Cari…"></label></header><div class="content" id="ct"></div></main></div>
